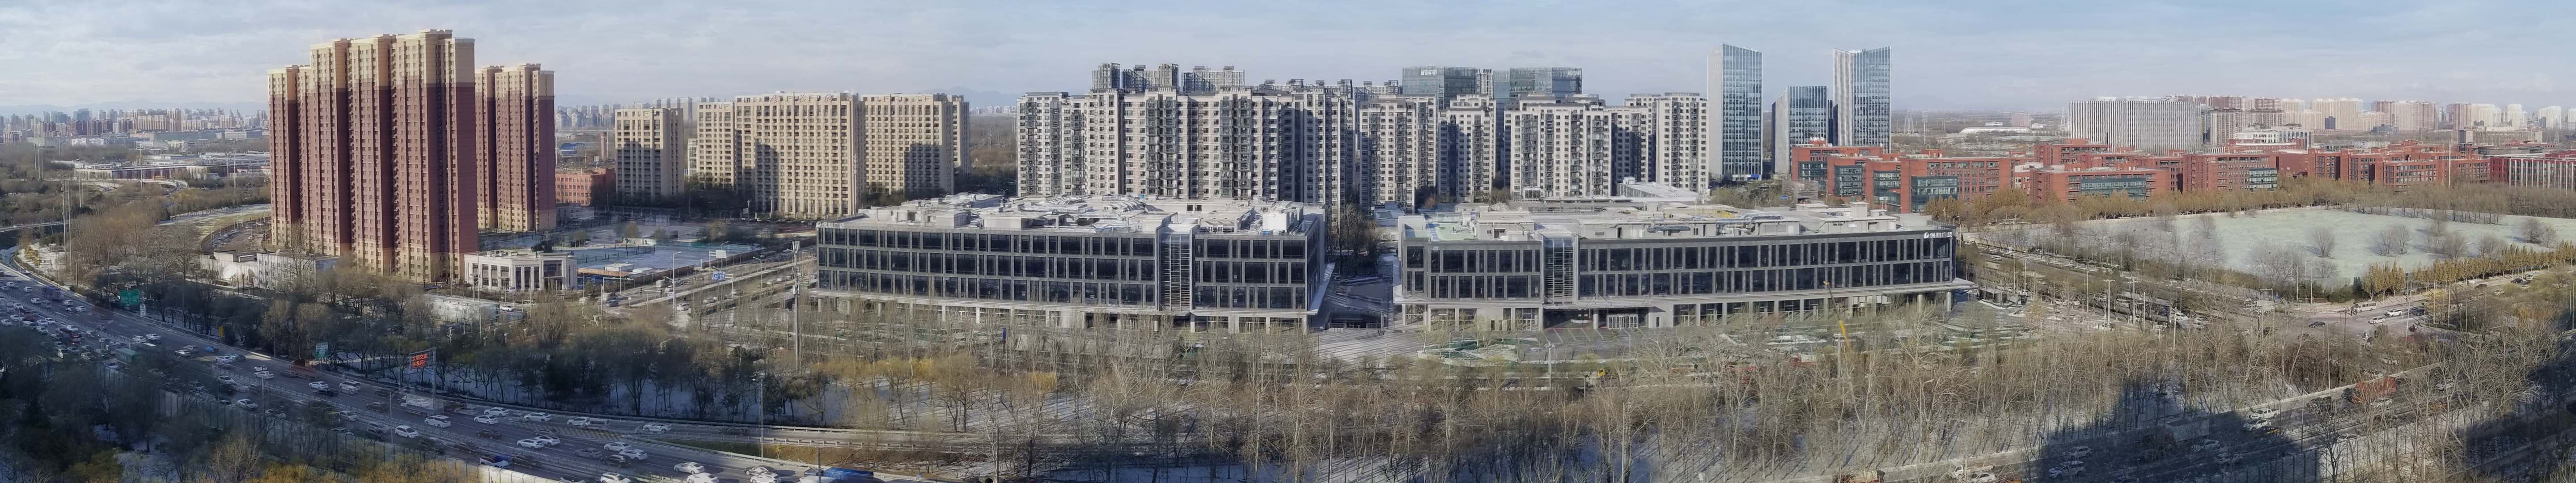
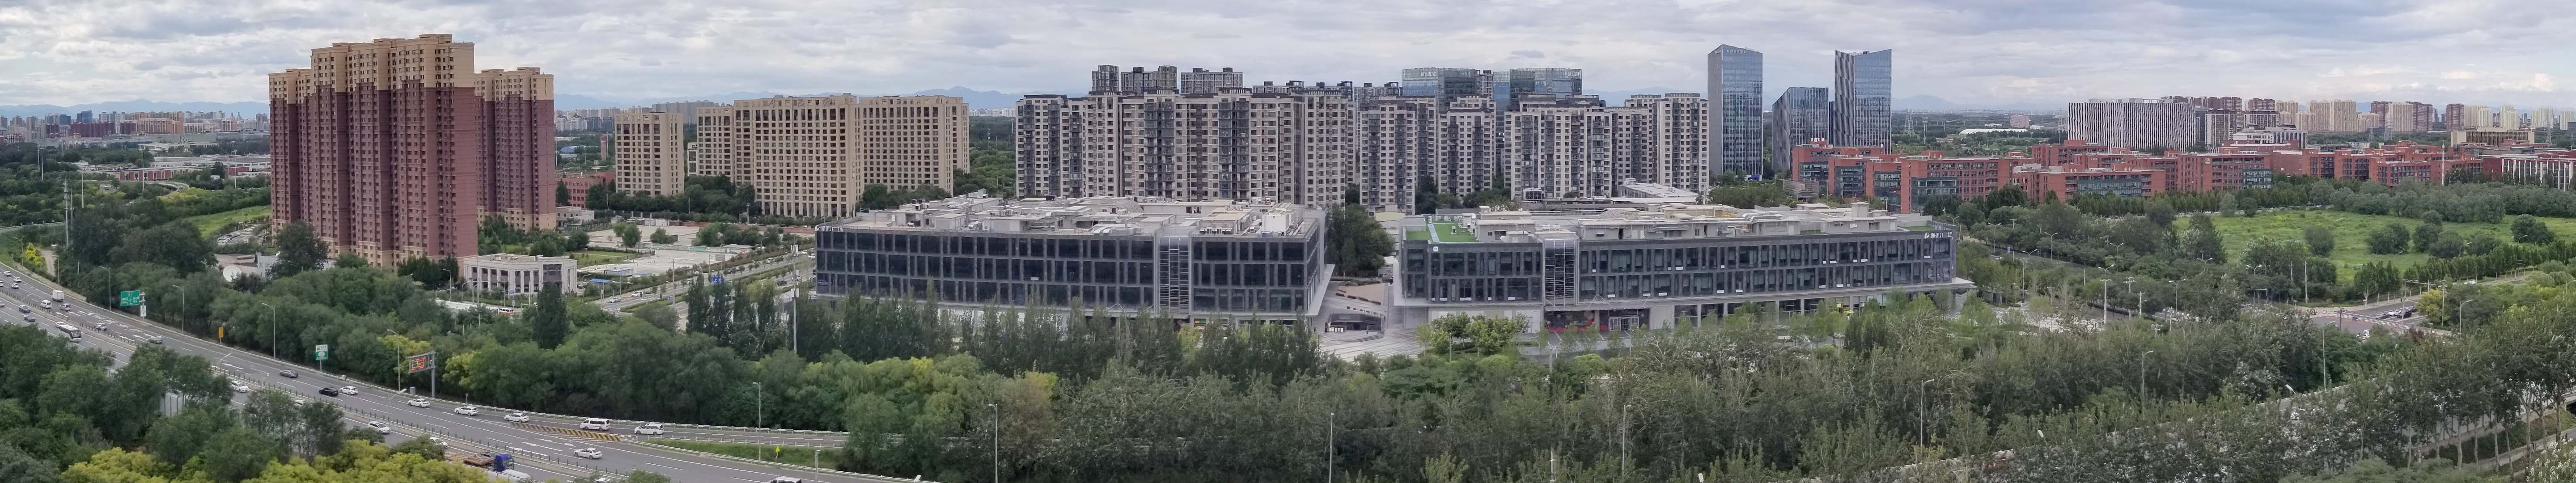
替换展示图片

diff --git a/docs/en/PanoramaStitching/components/index.vue b/docs/en/PanoramaStitching/components/index.vue
@@ -2,7 +2,8 @@
   <div>
     <ImageOverlay :images="[
       '/PanoramaStitching/pano1.jpg',
-      '/PanoramaStitching/pano2.jpg'
+      '/PanoramaStitching/pano2.jpg',
+      '/PanoramaStitching/pano3.jpg'
     ]" :duration="5000" />
 
     <div class="hero-overlay">

diff --git a/docs/zh/PanoramaStitching/components/index.vue b/docs/zh/PanoramaStitching/components/index.vue
@@ -2,7 +2,8 @@
   <div>
     <ImageOverlay :images="[
       '/PanoramaStitching/pano1.jpg',
-      '/PanoramaStitching/pano2.jpg'
+      '/PanoramaStitching/pano2.jpg',
+      '/PanoramaStitching/pano3.jpg'
     ]" :duration="5000" />
 
     <div class="hero-overlay">

diff --git a/docs/en/PanoramaStitching/Document/what-is-pano.md b/docs/en/PanoramaStitching/Document/what-is-pano.md
@@ -35,8 +35,9 @@ export default {
 
 <ImageOverlay height="100px"
     :images="[
-    '/PanoramaStitching/pano1.jpg',
-    '/PanoramaStitching/pano2.jpg'
+      '/PanoramaStitching/pano1.jpg',
+      '/PanoramaStitching/pano2.jpg',
+      '/PanoramaStitching/pano3.jpg'
     ]" 
     :duration="5000"
 />

diff --git a/docs/zh/PanoramaStitching/Document/what-is-pano.md b/docs/zh/PanoramaStitching/Document/what-is-pano.md
@@ -35,8 +35,9 @@ export default {
 
 <ImageOverlay height="100px"
     :images="[
-    '/PanoramaStitching/pano1.jpg',
-    '/PanoramaStitching/pano2.jpg'
+      '/PanoramaStitching/pano1.jpg',
+      '/PanoramaStitching/pano2.jpg',
+      '/PanoramaStitching/pano3.jpg'
     ]" 
     :duration="5000"
 />